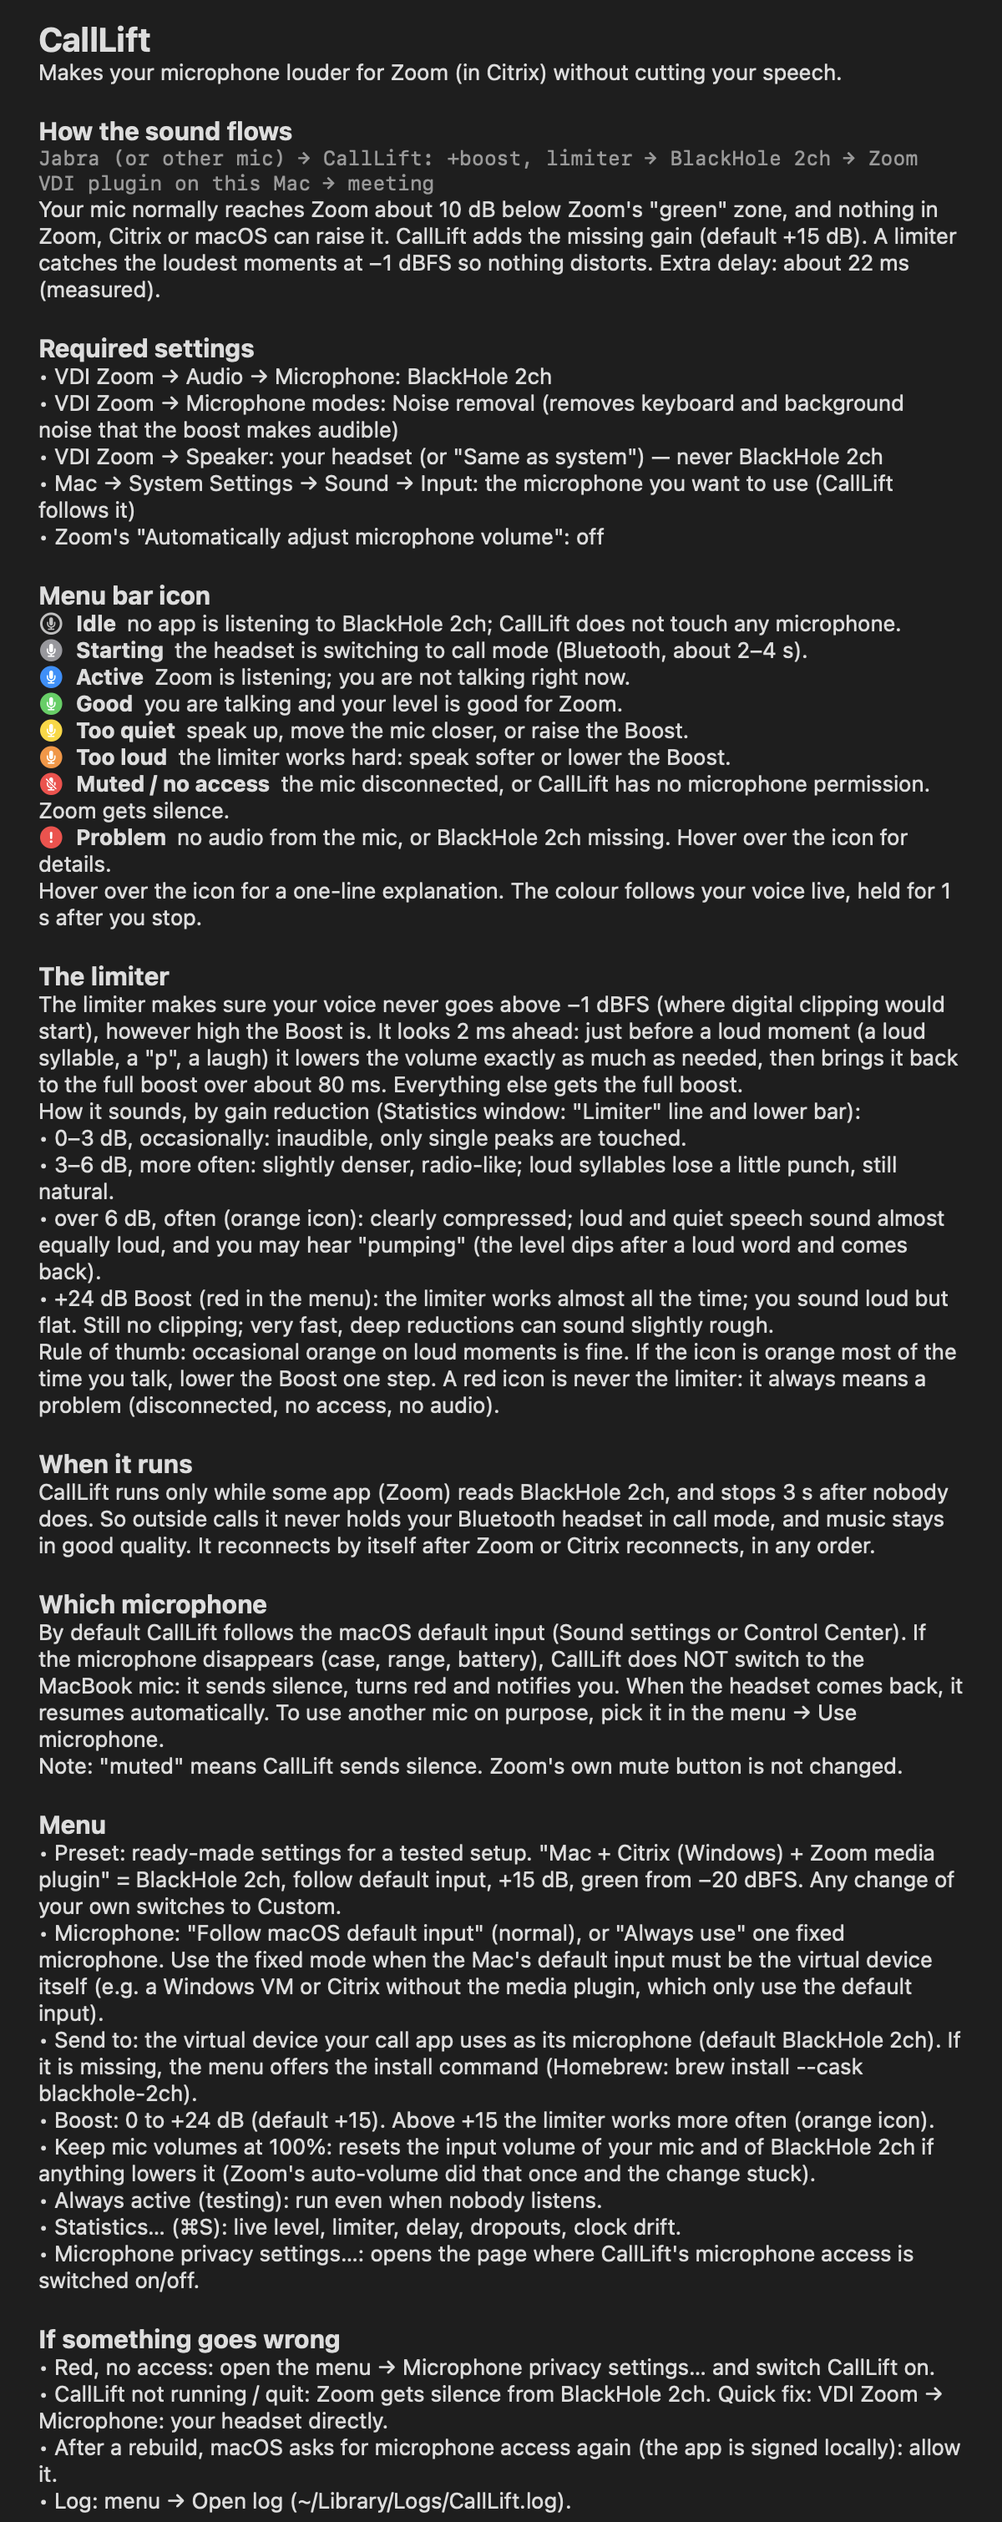
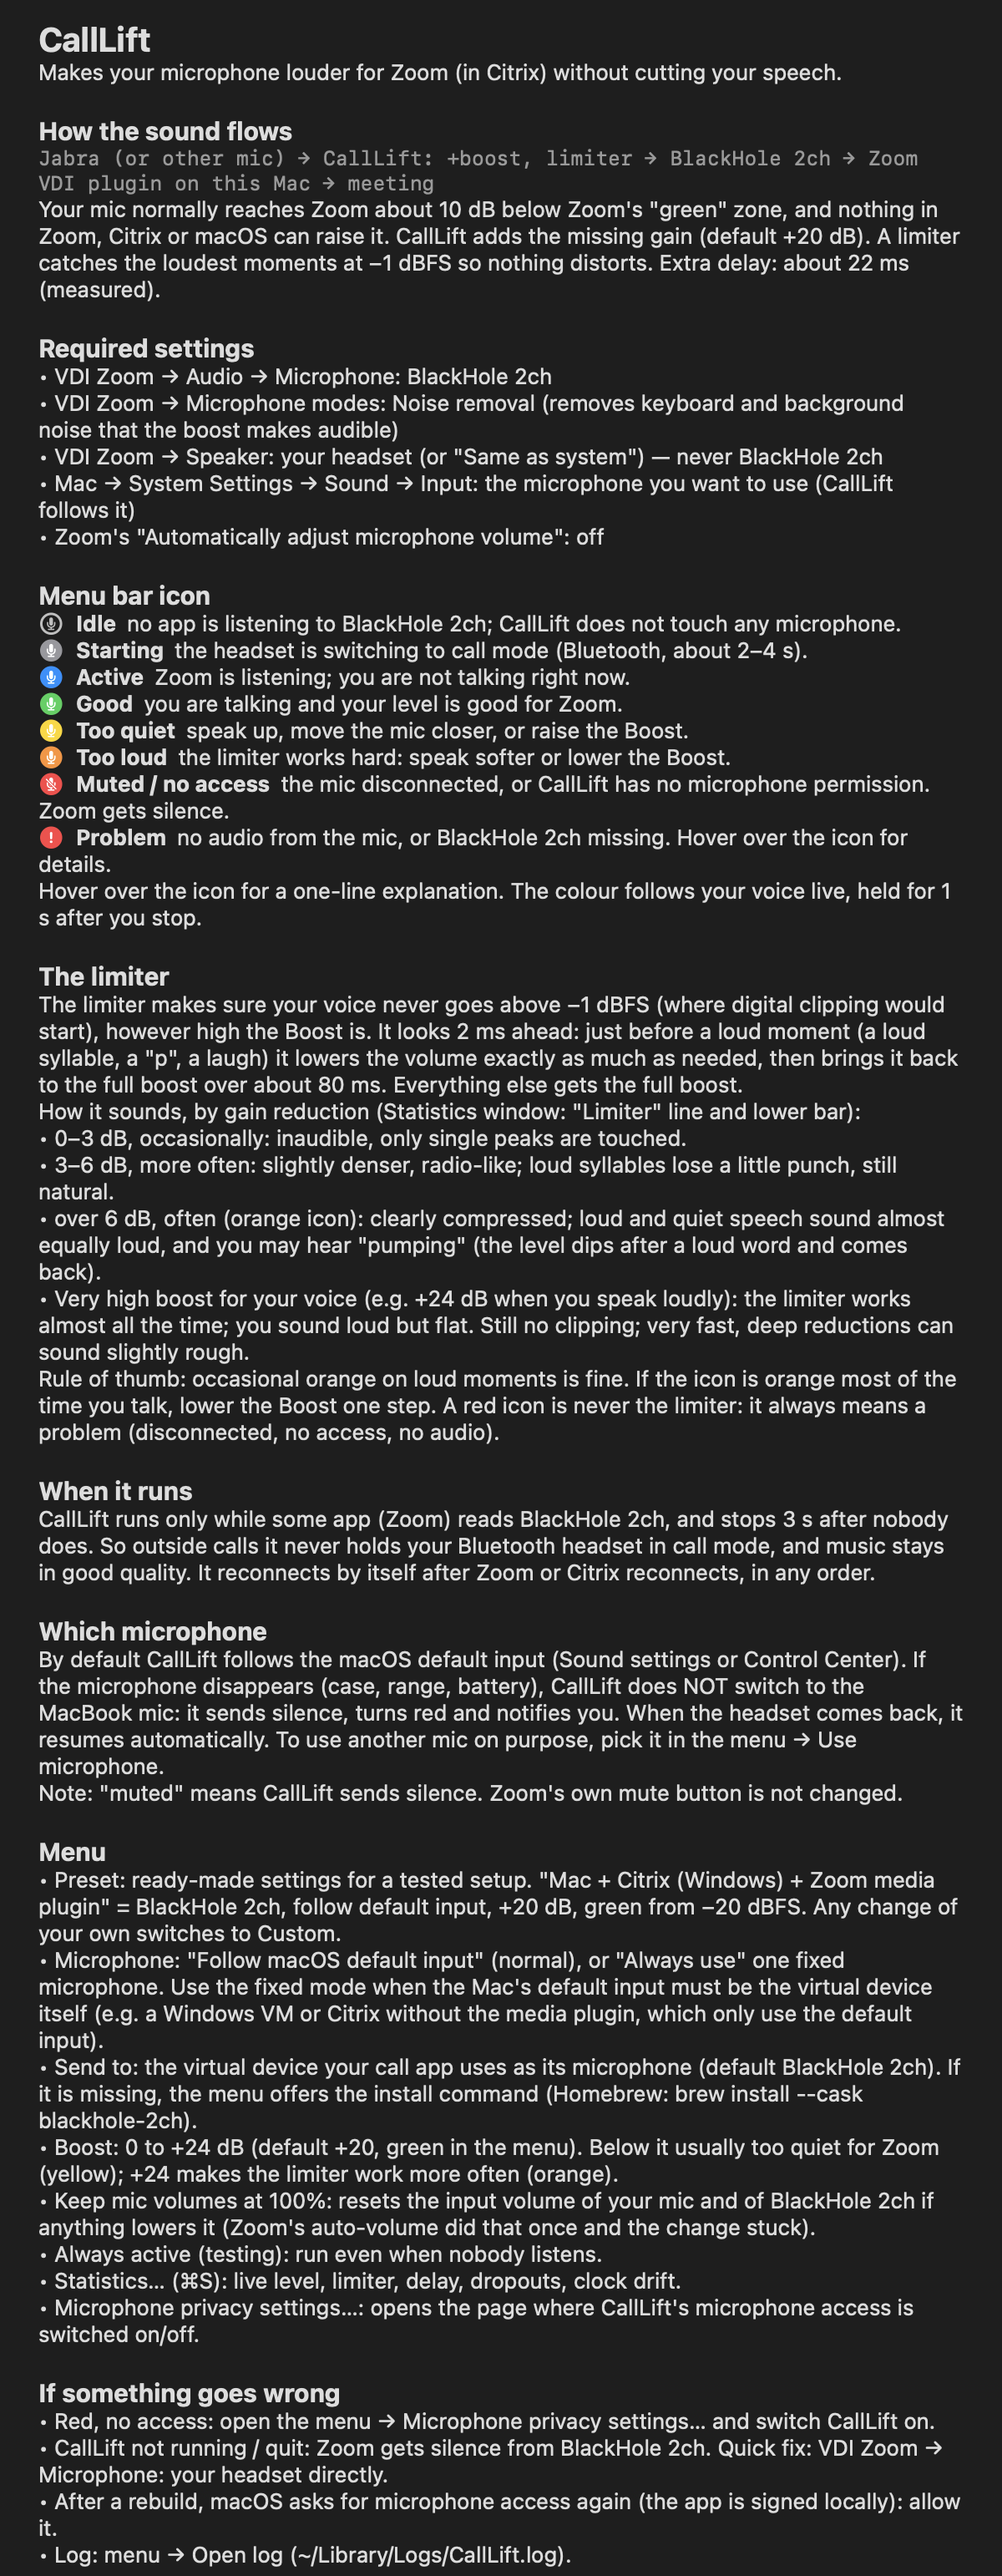
Recommend +20 dB, README opens with the Boost menu
Green 'recommended' boost and preset default raised from +15 to +20 dB (normal speech reaches Zoom's green zone). Choosing the preset's own value no longer switches to Custom. README starts with a menu screenshot and explains that BlackHole does not affect normal audio unless selected.

Changed region(s): [[0.0308, 0.0, 0.9558, 0.996]]

diff --git a/calllift/HelpWindow.swift b/calllift/HelpWindow.swift
@@ -55,7 +55,7 @@ final class HelpWindow: NSObject {
 
         h("How the sound flows")
         m("Jabra (or other mic) → CallLift: +boost, limiter → BlackHole 2ch → Zoom VDI plugin on this Mac → meeting")
-        p("Your mic normally reaches Zoom about 10 dB below Zoom's \"green\" zone, and nothing in Zoom, Citrix or macOS can raise it. CallLift adds the missing gain (default +15 dB). A limiter catches the loudest moments at −1 dBFS so nothing distorts. Extra delay: about 22 ms (measured).")
+        p("Your mic normally reaches Zoom about 10 dB below Zoom's \"green\" zone, and nothing in Zoom, Citrix or macOS can raise it. CallLift adds the missing gain (default +20 dB). A limiter catches the loudest moments at −1 dBFS so nothing distorts. Extra delay: about 22 ms (measured).")
 
         h("Required settings")
         p("• VDI Zoom → Audio → Microphone: BlackHole 2ch")
@@ -81,7 +81,7 @@ final class HelpWindow: NSObject {
         p("• 0–3 dB, occasionally: inaudible, only single peaks are touched.")
         p("• 3–6 dB, more often: slightly denser, radio-like; loud syllables lose a little punch, still natural.")
         p("• over 6 dB, often (orange icon): clearly compressed; loud and quiet speech sound almost equally loud, and you may hear \"pumping\" (the level dips after a loud word and comes back).")
-        p("• +24 dB Boost (red in the menu): the limiter works almost all the time; you sound loud but flat. Still no clipping; very fast, deep reductions can sound slightly rough.")
+        p("• Very high boost for your voice (e.g. +24 dB when you speak loudly): the limiter works almost all the time; you sound loud but flat. Still no clipping; very fast, deep reductions can sound slightly rough.")
         p("Rule of thumb: occasional orange on loud moments is fine. If the icon is orange most of the time you talk, lower the Boost one step. A red icon is never the limiter: it always means a problem (disconnected, no access, no audio).")
 
         h("When it runs")
@@ -92,10 +92,10 @@ final class HelpWindow: NSObject {
         p("Note: \"muted\" means CallLift sends silence. Zoom's own mute button is not changed.")
 
         h("Menu")
-        p("• Preset: ready-made settings for a tested setup. \"Mac + Citrix (Windows) + Zoom media plugin\" = BlackHole 2ch, follow default input, +15 dB, green from −20 dBFS. Any change of your own switches to Custom.")
+        p("• Preset: ready-made settings for a tested setup. \"Mac + Citrix (Windows) + Zoom media plugin\" = BlackHole 2ch, follow default input, +20 dB, green from −20 dBFS. Any change of your own switches to Custom.")
         p("• Microphone: \"Follow macOS default input\" (normal), or \"Always use\" one fixed microphone. Use the fixed mode when the Mac's default input must be the virtual device itself (e.g. a Windows VM or Citrix without the media plugin, which only use the default input).")
         p("• Send to: the virtual device your call app uses as its microphone (default BlackHole 2ch). If it is missing, the menu offers the install command (Homebrew: brew install --cask blackhole-2ch).")
-        p("• Boost: 0 to +24 dB (default +15). Above +15 the limiter works more often (orange icon).")
+        p("• Boost: 0 to +24 dB (default +20, green in the menu). Below it usually too quiet for Zoom (yellow); +24 makes the limiter work more often (orange).")
         p("• Keep mic volumes at 100%: resets the input volume of your mic and of BlackHole 2ch if anything lowers it (Zoom's auto-volume did that once and the change stuck).")
         p("• Always active (testing): run even when nobody listens.")
         p("• Statistics… (⌘S): live level, limiter, delay, dropouts, clock drift.")

diff --git a/calllift/Controller.swift b/calllift/Controller.swift
@@ -21,7 +21,7 @@ struct Preset {
     static let all: [Preset] = [
         Preset(id: "zoom-citrix", name: "Mac + Citrix (Windows) + Zoom media plugin",
                summary: "Tested 2026-11: Zoom VDI plugin on the Mac reads the virtual device; Zoom mic = BlackHole 2ch, Noise removal on.",
-               sinkName: "BlackHole 2ch", followDefault: true, gainDB: 15, goodDB: -20),
+               sinkName: "BlackHole 2ch", followDefault: true, gainDB: 20, goodDB: -20),
     ]
     static func find(_ id: String) -> Preset? { all.first { $0.id == id } }
 }
@@ -297,7 +297,11 @@ final class Controller {
 
     // MARK: presets, follow mode, virtual device
 
-    private func markCustom() { if !applyingPreset && presetID != "custom" { presetID = "custom" } }
+    private func markCustom() {
+        guard !applyingPreset, presetID != "custom", let p = Preset.find(presetID) else { return }
+        let same = p.sinkName == sinkName && p.followDefault == followDefault && p.gainDB == gainDB && p.goodDB == goodDB
+        if !same { presetID = "custom" }
+    }
 
     func apply(_ p: Preset) {
         applyingPreset = true

diff --git a/calllift/App.swift b/calllift/App.swift
@@ -181,10 +181,9 @@ final class AppDelegate: NSObject, NSApplicationDelegate, NSMenuDelegate {
             let (dot, note): (NSColor, String) = {
                 switch g {
                 case 0: return (.systemGray, "  off")
-                case ..<15: return (.systemYellow, "  usually too quiet for Zoom")
-                case 15: return (.systemGreen, "  recommended")
-                case ..<24: return (.systemOrange, "  louder, limiter works more often")
-                default: return (.systemRed, "  very loud, heavy limiting")
+                case ..<20: return (.systemYellow, "  usually too quiet for Zoom")
+                case 20: return (.systemGreen, "  recommended")
+                default: return (.systemOrange, "  louder, limiter works more often")
                 }
             }()
             let title = NSMutableAttributedString(string: "● ", attributes: [.foregroundColor: dot, .font: NSFont.menuFont(ofSize: 0)])

diff --git a/README.md b/README.md
@@ -1,3 +1,5 @@
+![CallLift menu with the recommended +20 dB boost selected](calllift/docs/boost-menu.png)
+
 # CallLift
 
 **Your microphone is too quiet in calls, and nothing in the settings makes it louder. CallLift does.**
@@ -29,7 +31,7 @@ It was built for one specific, common setup and tested there:
 microphone (e.g. Bluetooth headset) → CallLift: +boost, limiter at −1 dBFS → BlackHole 2ch → call app → meeting
 ```
 
-- **Boost** 0 to +24 dB (default +15 dB, tuned so normal speech reaches Zoom's green zone), **look-ahead limiter** so loud moments never clip.
+- **Boost** 0 to +24 dB (default +20 dB, tuned so normal speech reaches Zoom's green zone), **look-ahead limiter** so loud moments never clip.
 - **Live voice feedback** in the menu bar: blue = active, not talking · green = good level · yellow = too quiet · orange = too loud (limiter working hard) · red = problem.
 - **Runs only while an app listens** to the virtual microphone; outside calls it touches no microphone, so a Bluetooth headset stays in music quality.
 - **Follows the macOS default input**, or a fixed microphone. If the microphone **disconnects**, CallLift sends silence and turns red instead of silently switching to the laptop mic; it resumes when the headset is back.
@@ -54,6 +56,8 @@ sudo killall coreaudiod            # or log out and in, so the new device appear
 git clone https://github.com/nuschpl/CallLift.git
 cd CallLift/calllift && ./install.sh
 ```
+
+BlackHole only adds an extra, silent audio device: your normal speakers and microphones keep working as before, and nothing goes through BlackHole unless an app (or you, in Sound settings) selects it; the one exception we saw is that macOS itself may switch its default input or output to a BlackHole device when your current headset disconnects (CallLift ignores that switch for its own microphone, but other apps set to "same as system" follow it until the headset is back).
 
 `install.sh` builds the app into `~/Applications/CallLift.app` and starts it at every login. Allow microphone access
 when macOS asks. CallLift is signed locally (ad-hoc), so macOS asks again after every rebuild.
